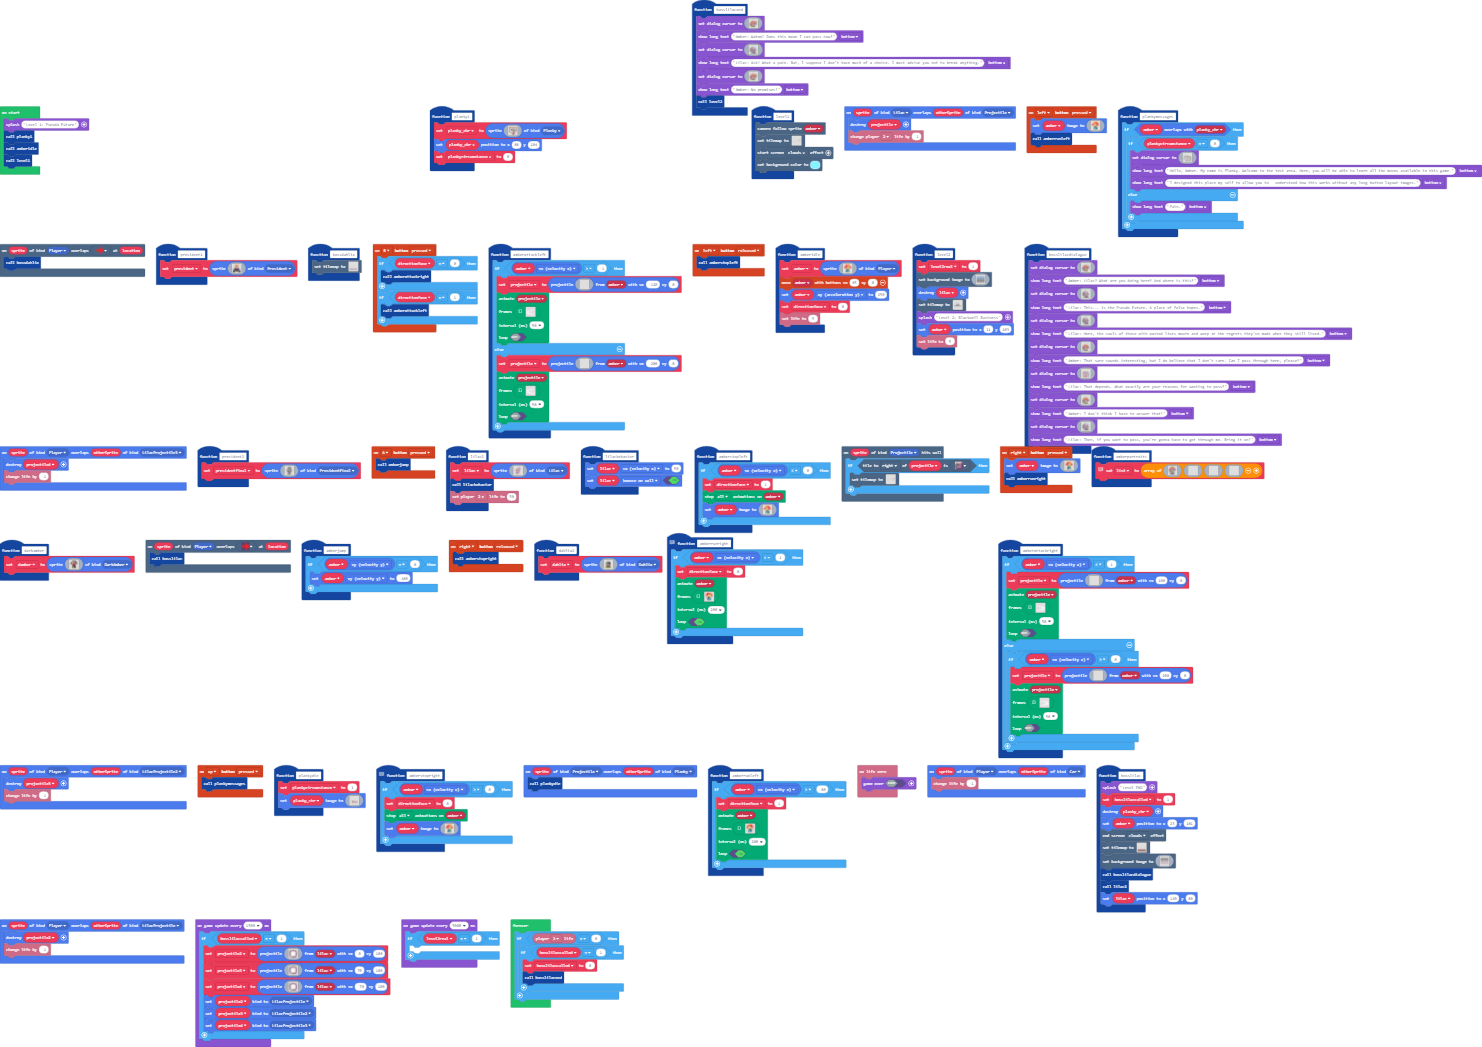
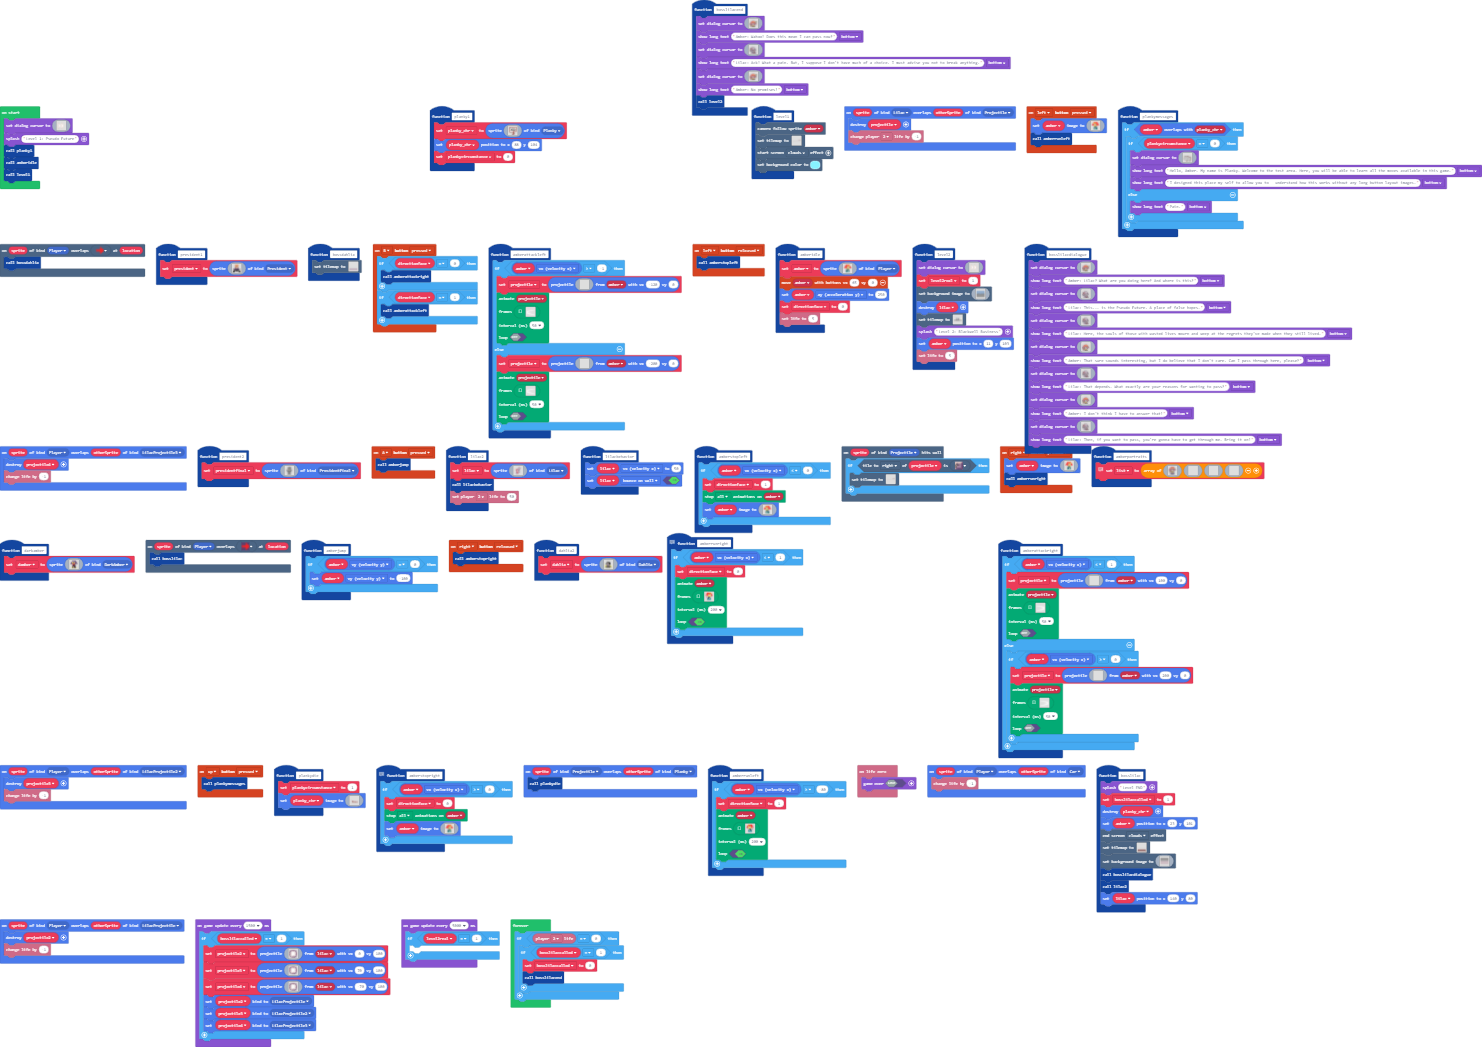
Update main.blocks, main.ts

Changed region(s): [[0.6208, 0.2445, 0.6829, 0.3668], [0.0, 0.0917, 0.0621, 0.1834], [0.6829, 0.4279, 0.7139, 0.4585]]

diff --git a/main.ts b/main.ts
@@ -955,6 +955,24 @@ function amberidle () {
     info.setLife(5)
 }
 function level2 () {
+    game.setDialogCursor(img`
+. . . . . . . . . . . . . . . . 
+. . . . . . . . . . . . . . . . 
+. . d . . . . . d . . . . . . . 
+. . d d . . . . d d . . . . . . 
+. . d 1 d . . . d 1 d . . . . . 
+. . d 1 1 d . . d 1 1 d . . . . 
+. . d 1 1 1 d . d 1 1 1 d . . . 
+. . d 1 1 1 1 d d 1 1 1 1 d . . 
+. . d 1 1 1 1 d d 1 1 1 1 d . . 
+. . d 1 1 1 d . d 1 1 1 d . . . 
+. . d 1 1 d . . d 1 1 d . . . . 
+. . d 1 d . . . d 1 d . . . . . 
+. . d d . . . . d d . . . . . . 
+. . d . . . . . d . . . . . . . 
+. . . . . . . . . . . . . . . . 
+. . . . . . . . . . . . . . . . 
+`)
     level2real = 1
     scene.setBackgroundImage(img`
 8 8 8 8 8 8 8 8 8 8 8 8 8 8 8 8 8 8 8 8 8 8 8 8 8 8 8 8 8 8 8 8 8 8 8 8 8 8 8 8 8 8 8 8 8 8 8 8 8 8 8 8 8 8 8 8 8 8 8 8 8 8 8 8 8 8 8 8 8 8 8 8 8 8 8 8 8 8 8 8 8 8 8 8 8 8 8 8 8 8 8 8 8 8 8 8 8 8 8 8 8 8 8 8 8 8 8 8 8 8 8 8 8 8 8 8 8 8 8 8 8 8 8 8 8 8 8 8 8 8 8 8 8 8 8 8 8 8 8 8 8 8 8 8 8 8 8 8 8 8 8 8 8 8 8 8 8 8 8 8 
@@ -1329,47 +1347,47 @@ function bosslilacdialogue () {
 . . . . . . . . . . . . . . . . . . . . . . . . . . . . . . . . . . . . . . . . . . . . . . . . . . 
 . . . . . . . . . . . . . . . . . . . . . . . . . . . . . . . . . . . . . . . . . . . . . . . . . . 
 . . . . . . . . . . . . . . . . . . . . . . . . . . . . . . . . . . . . . . . . . . . . . . . . . . 
-. . . . . . . . . . . . . . . . . . . . . . . . . . . . . . . . . . . . . . . . . . . . . . . . . . 
-. . . . . . . . . . . . . . . . . . . . . . . . . . . . . . . . . . . . . . . . . . . . . . . . . . 
-. . . . . . . . . . . . . . . . . . . . . . . . . . . . . . . . . . . . . . . . . . . . . . . . . . 
-. . . . . . . . . . . . . . . . . . . . . . . . . . . . . . . . . . . . . . . . . . . . . . . . . . 
-. . . . . . . . . . . . . . . . . . . . . . b b b b b b b b b b b b . . . . . . . . . . . . . . . . 
-. . . . . . . 2 2 2 . . . . . . . . b b b b b b b b b b b b b b b b b b b . . . . . . . . . . . . . 
-. . . . . . . 2 . . 2 . . . . b b b b b b b b b b b b b b b b b b b b b b b b . . . . . . . . . . . 
-. . . . . . . 2 . . 2 2 . b 2 2 2 b b b b b b b b b b b b b b b b b b b b b b b . . . . . . . . . . 
-. . . . . . . 2 . . 2 2 2 2 b b 2 b b b b b b b b b b b b b b b b b b b b b b b b . . . . . . . . . 
-. . . . . . . 2 2 2 2 b 2 b b b 2 b b b b b b b b b b b b b b b b b b b b b b b b b . . . . . . . . 
-. . . . . . . 2 2 2 2 2 b b b b 2 b b b b b b b b b b b b f b b b b b b b b b b b b . . . . . . . . 
-. . . . . . . 2 b 2 2 b 2 2 2 2 f b b b b b b b b b b b f b b b b b b b b b b b b b b . . . . . . . 
-. . . . . 2 2 b 2 2 2 2 b 2 b b f f b b b b b b b b b f f b b b b b b b b b b b b b b b . . . . . . 
-. . . . . 2 . 2 b 2 2 b b b b b b f f b b b b b b b b f f f f f d d b b b b b b b b b b . . . . . . 
-. . . . 2 2 2 b 2 2 2 b b b b b b b f f b d d d d d f d d 2 d d d d b b b b b b b b b b b . . . . . 
-. . . . . . b b 2 2 b b b b d f f f f f f d d d d d d d d 2 d d d d b b b b b b b b b b b . . . . . 
-. . . . . . b b 2 2 b b b b d f f 2 d d f d d d d d d d d 2 d d d d b b b b b b b b b b b b . . . . 
-. . . . . b b b 2 b b b b b d d d 2 d d d d d d f f d d d d d d d d b b b b b b b b b b b b . . . . 
-. . . . . b b b b b b b b b d d d d d d d d f f d d f f d d d d d d b b b b b b b b b b b . . . . . 
-. . . . . b b b b b b b b b d d d d d d d f f d d d d f f d d d d d b b b b b b b b b . . . . . . . 
-. . . . . b b b b b b b b b d d d d d d f d d d d d d d d d d f f f b b b b b b b . . . . . . . . . 
-. . . . . b b b b b b b b b . d d d d d f d d d d d d f f d f 1 1 f b b b b . . . . . . . . . . . . 
-. . . . . b b b b b b b b b b . . d d d d d f f d d f 1 1 f f 1 1 1 b b b b b b b b b . . . . . . . 
-. . . . . b b b b b b b b b b . . . . d d f f f f f 1 1 1 f 1 1 1 1 b b b b b b b b b b . . . . . . 
-. . . . . . . . . . . . . . . . f f f f f f 1 f f 1 1 1 1 1 1 1 b b b b b b b b b b b b b . . . . . 
-. . . . . . . . . b b b b b b b f 1 1 f f 1 1 1 1 1 1 1 1 f f b b b b b b b b b b b b b b . . . . . 
-. . . . . . . . b b b b b b b b f f 1 1 1 1 1 1 2 f f f f b b b b b b b b b b b b b b b b . . . . . 
-. . . . . . . . b b b b b b b b b f f 1 1 2 2 2 f 2 2 2 2 2 b b b b b b b b b b b b b b b . . . . . 
-. . . . . . . b b b b b b b b b b b f 2 2 2 2 1 1 2 1 1 1 2 b b b b b b b b b b b b b b . . . . . . 
-. . . . . . . b b b b b b b b b b b 2 1 1 1 2 2 2 2 2 1 1 2 b b b b b b b b b b b b b . . . . . . . 
-. . . . . . . . b b b b b b b b b 2 1 1 1 1 1 2 2 b b 2 2 b b b b b b b b b b b b b b . . . . . . . 
-. . . . . . . . b b b b b b b b 2 2 2 2 2 2 2 b 2 b b b b b b b b b b b b b b b b . . . . . . . . . 
-. . . . . . . . . . f b b b b b b b b b b b 2 b b 2 b b b b b b b b . . . . . f f . . . . . . . . . 
-. . . . . . . . . f . . . . b b b b b b b 2 b b b 2 b b b b b b b b . . . . . . f . . . . . . . . . 
-. . . . . . . . f f . . . . b b b b b b 2 b b b b 2 b b b b b b b . . . . . . . f f . . . . . . . . 
-. . . . . . . . f . . . . . . 2 2 b b b 2 b b b b b 2 b b b b 2 . . . . . . . . . f f . . . . . . . 
-. . . . . . f f . . . . . . . 2 2 2 2 2 2 2 2 2 2 2 2 2 2 2 2 2 . . . . . . . . . . f f . . . . . . 
-. . . . . . f . . . . . b b b 2 2 2 2 2 2 2 2 2 2 2 2 2 2 2 2 2 . . . . . . . . . . . f . . . . . . 
-. . . . . f . . . . b b b b b b b b b 2 2 2 2 2 2 2 2 2 2 2 2 2 b b b . . . . . . . . . f f . . . . 
-. . . . f f . . . b b b b b b b b b b b b b b b b b b b b b b b b b b b b . . . . . . . . f . . . . 
-. . . . . . . . b b b b b b b b b b b b b b b b b b b b b b b b b b b b b b . . . . . . . . . . . . 
+. . . . . . . . . . . . . . . . f f f f f f f f f f f f f . . . . . . . . . . . . . . . . . . . . . 
+. . . . . . . . . . . . . . f f c b b b b b b b b b b b c f f . . . . . . . . . . . . . . . . . . . 
+. . . . . . . . . . . . f f c b b b b b b b b b b b b b b b c f f . . . . . . . . . . . . . . . . . 
+. . . . . . . . . . . f c b b b b b b b b b b b b b b b b b b b c f . . . . . . . . . . . . . . . . 
+. . . . . . . . . . f c b b b b b b b b b b b b b b b b b b b b d b f . . . . . . . . . . . . . . . 
+. . . . . . . . . f c b b b b b f f b b b b b b b b b b b b b d 1 1 b f . . . . . . . . . . . . . . 
+. . . . . . f f f c b b b b b f c f b b b b b b b b b b b d 1 1 1 1 d c f . . . . . . . . . . . . . 
+. . . . . . f c f c b b b b f 2 2 f b b b b b b b b d 1 1 1 1 1 d b b b f . . . . . . . . . . . . . 
+. . . . . . f 2 2 f c b b f 2 2 2 f b b d 1 1 1 1 1 1 1 1 d c b b b b b c f . . . . . . . . . . . . 
+. . . . . . f 2 2 2 f f f 2 2 2 c f b b b b b d 1 1 d b b b b f b b b b c f . . . . . . . . . . . . 
+. . . . . . f c 2 f 2 2 f 2 2 2 f b b b b b b b b b b b b b b b f b b c f c f . . . . . . . . . . . 
+. . . . . . f f 2 f 2 2 f 2 2 2 f b b b b b b b b b b b b b b b f c c f c b c f . . . . . . . . . . 
+. . . . . . f f 2 f 2 c f 2 2 c f b b b b b c b b b b b b b b b b f f f c b b c f . . . . . . . . . 
+. . . . . . f f c 2 f f f c 2 f b b b b b b f b b b b b b b b b c f c f c b b b f . . . . . . . . . 
+. . . . . f c b f f c f 2 f f f b b b b b b f b b b b b b b b c f f c c f b b b c f . . . . . . . . 
+. . . . . f b b f 2 f f 2 f b b b b b b b b f b b b b b b b c f f f c b f b b c c f . . . . . . . . 
+. . . . f c b f 2 2 f f 2 f b b c b b b b c f c b b b b c f f f f f f b f c b f c f . . . . . . . . 
+. . . . f b f c 2 f b f 2 f b b f c c c c c f f c c f f f f b b b f f b c f b b f f . . . . . . . . 
+. . . f c b f c f b b f 2 f b b c f f f f f f f f f c c f c 1 1 1 b f b b f c b f f . . . . . . . . 
+. . . f c b b f f b b f c f b b b c f b f b f f c c b f 1 2 1 1 1 b f c b f c b f . . . . . . . . . 
+. . . f c b b b b b b b f f c b b b f 1 c 1 1 1 f d d d d d d d d d c f b c f c f . . . . . . . . . 
+. . . f c c b b b b b b b c f b b b f b 2 1 1 d d d d d d d d d d b c f b b f f . . . . . . . . . . 
+. . . . f c c f b b f b b b f b b b c f d d d d d d d d d d d d d b c f c b f . . . . . . . . . . . 
+. . . . f c c f c b f c b b f b b b b f b d d d d d f f f f d d b c f f c c f . . . . . . . . . . . 
+. . . . . f c c f b c f b b f c b b b f c b d d d f 3 2 2 2 c b c f f f f c f . . . . . . . . . . . 
+. . . . . . f c f c b f c b f c b b b c f c b d d c 3 3 2 2 b c f f . . . f f . . . . . . . . . . . 
+. . . . . . . f f f c c f c c f c b b b f c c b b b b b b c f f . . . . . . . . . . . . . . . . . . 
+. . . . . . . . . . f f f f c c f c b b c f f f f f f f f f f . . . . . . . . . . . . . . . . . . . 
+. . . . . . . . . . . . . . f f f f c c c f c b b f f f f f f f f . . . . . . . . . . . . . . . . . 
+. . . . . . . . . . . . . f c b b c f f f f c b 1 1 1 f f f 1 1 c f f f . . . . . . . . . . . . . . 
+. . . . . . . . . . . . f c b b b b b c f c f c b 1 1 1 1 1 1 b c f c b f f . . . . . . . . . . . . 
+. . . . . . . . . . . f c b b b b b b b c f c f c b b 1 1 b c f f f c b b c f . . . . . . . . . . . 
+. . . . . . . . . . . f b b b b b b b b b c f c f f f f f f f f c 2 f c b b c f . . . . . . . . . . 
+. . . . . . . . . . f c b b b b b b b b b b f c f c 2 f c 2 2 f f 2 2 f c b b f . . . . . . . . . . 
+. . . . . . . . . . f b b b b b b b b b b b c f c 2 f f f c c f c f 2 2 f b b c f . . . . . . . . . 
+. . . . . . . . . . f b b b b b b b b b b b b f c 2 f c c f f c f c c c f c b b f . . . . . . . . . 
+. . . . . . . . . . f b b b b b b b b b b b b f c 2 2 2 f c f c 2 f f f c f b b f . . . . . . . . . 
+. . . . . . . . . . f c b b b b b b b b b b b f f c c f f 2 f f c f c c b f c b f . . . . . . . . . 
+. . . . . . . . . . . f b b b b b b b b b b c f c f f c f 2 f 1 f 2 f b b c f c f . . . . . . . . . 
+. . . . . . . . . . . f c b b b b b b b c f f c f c c c f 2 f 1 f c f b b b f f f . . . . . . . . . 
+. . . . . . . . . . . . f c b b b b c f f b 1 1 c f b c f c f b 1 f b b b b f c . f . . . . . . . . 
 `)
     game.showLongText("Lilac: That depends. What exactly are your reasons for wanting to pass?", DialogLayout.Bottom)
     game.setDialogCursor(img`
@@ -2434,6 +2452,24 @@ let projectile: Sprite = null
 let amber: Sprite = null
 let plankycircumstance = 0
 let planky_chr: Sprite = null
+game.setDialogCursor(img`
+. . . . . . . . . . . . . . . . 
+. . . . . . . . . . . . . . . . 
+. . d . . . . . d . . . . . . . 
+. . d d . . . . d d . . . . . . 
+. . d 1 d . . . d 1 d . . . . . 
+. . d 1 1 d . . d 1 1 d . . . . 
+. . d 1 1 1 d . d 1 1 1 d . . . 
+. . d 1 1 1 1 d d 1 1 1 1 d . . 
+. . d 1 1 1 1 d d 1 1 1 1 d . . 
+. . d 1 1 1 d . d 1 1 1 d . . . 
+. . d 1 1 d . . d 1 1 d . . . . 
+. . d 1 d . . . d 1 d . . . . . 
+. . d d . . . . d d . . . . . . 
+. . d . . . . . d . . . . . . . 
+. . . . . . . . . . . . . . . . 
+. . . . . . . . . . . . . . . . 
+`)
 game.splash("Level 1: Pseudo Future")
 planky1()
 amberidle()
